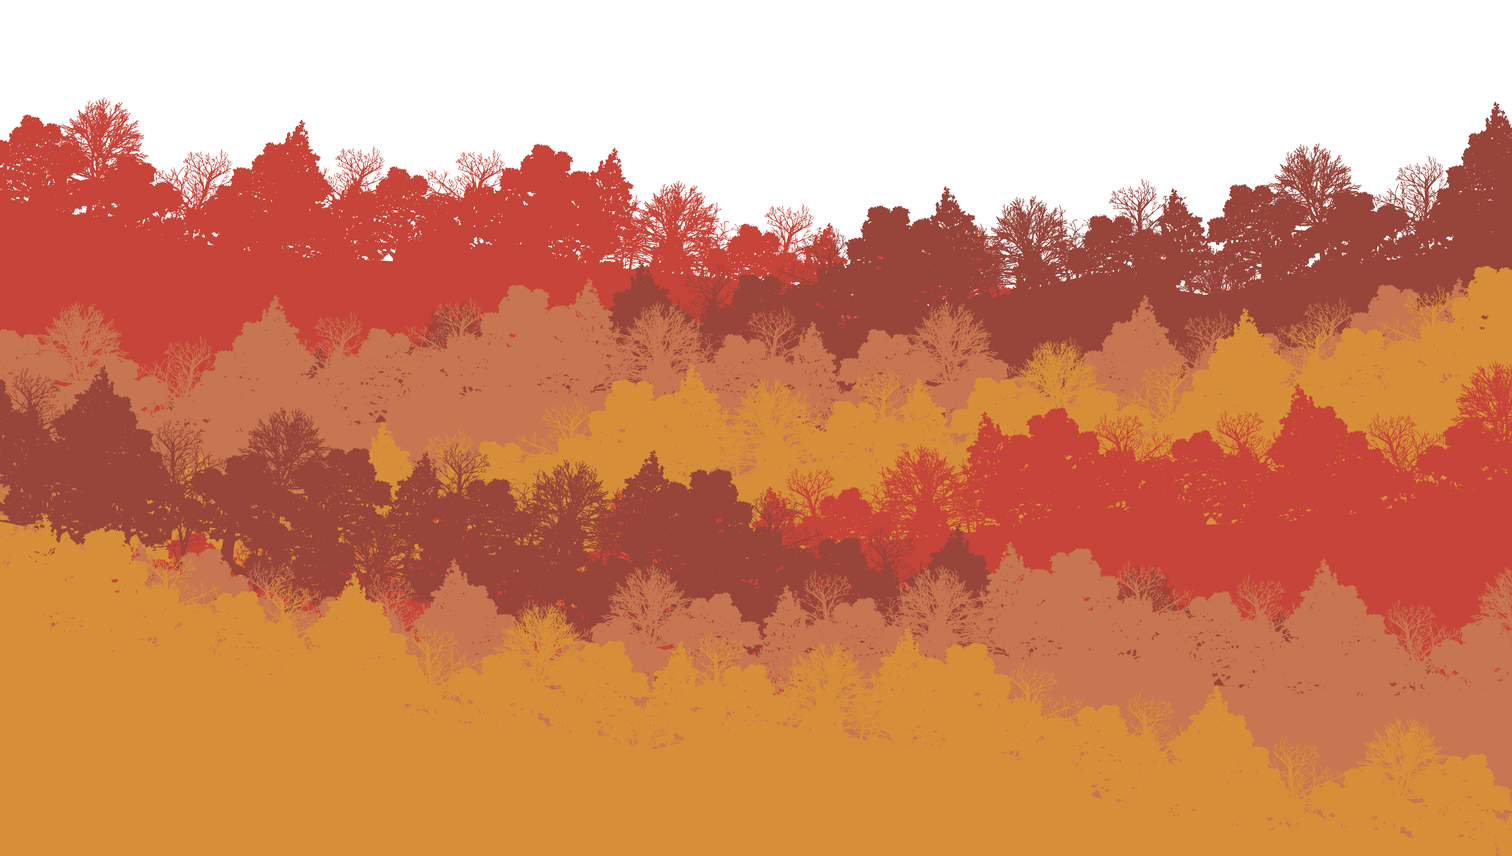
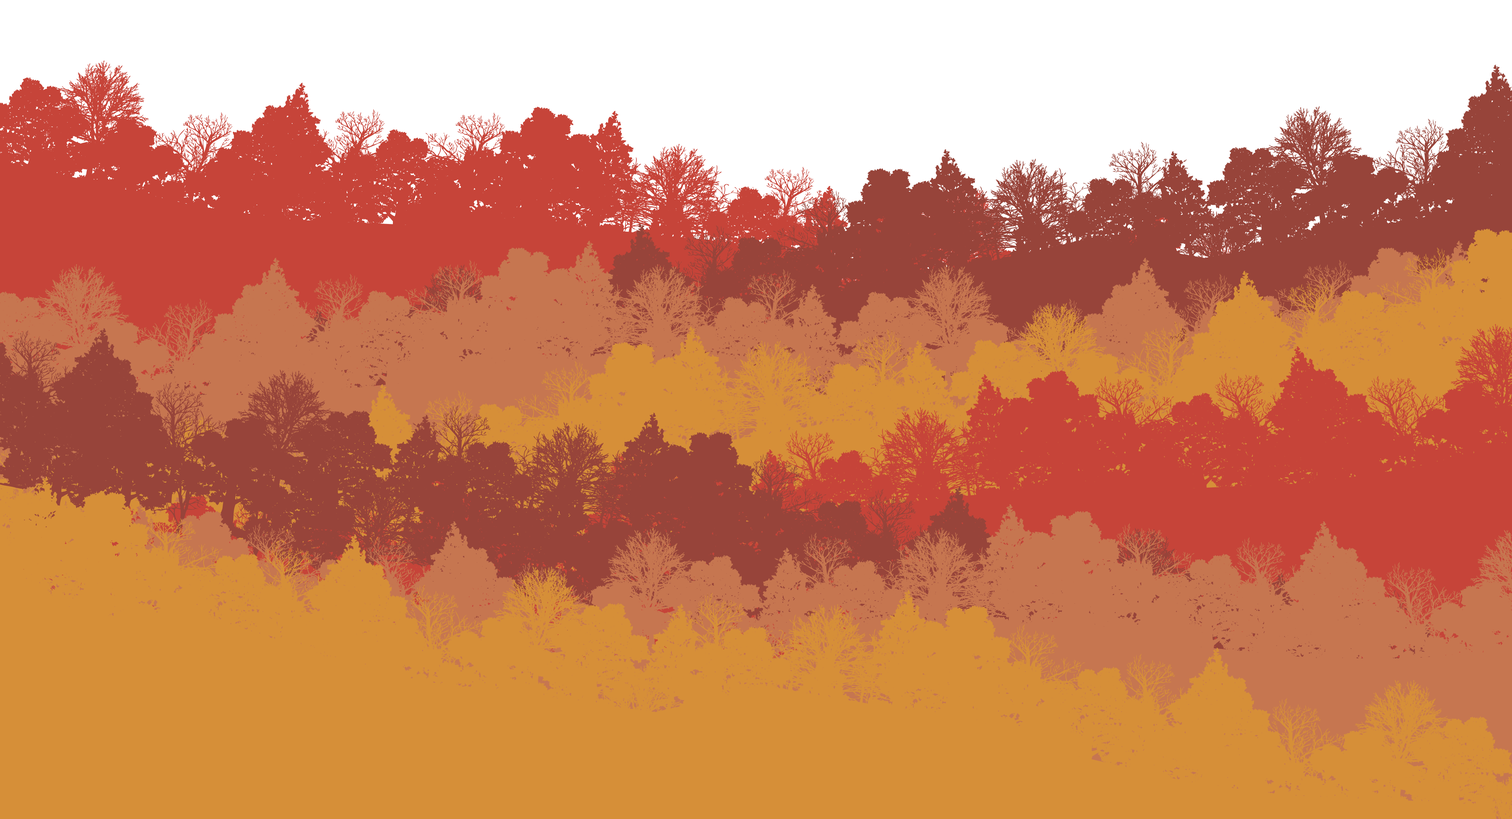
refactor(all): changed styling, and added new images

diff --git a/app/public/index.html b/app/public/index.html
@@ -4,125 +4,140 @@
     <meta charset="utf-8">
     <title>NJ Squared Wedding</title>
     <link rel="stylesheet" type="text/css" href="css/main.css" media="screen" />
+    <link href="https://fonts.googleapis.com/css?family=Montserrat:300|Quicksand:500" rel="stylesheet">
   </head>
   <body>
-    <div class="nav">
-      <div class="nav-links">
-        <ul>
-          <li><a href=#home>Home</a></li>
-          <li><a href=#our-story>Our Story</a></li>
-          <li><a href=#the-ceremony>The Ceremony</a></li>
-          <li><a href=#hotel>Hotel</a></li>
-          <li><a href=#sites>Sights To See</a></li>
-          <li><a href=#registry>Registry</a></li>
-          <li><a href=#rsvp>RSVP</a></li>
-        </ul>
+    <div class="wrapper">
+      <div class="nav">
+        <div class="nav-links">
+          <ul>
+            <li><a href=#home>HOME</a></li>
+            <li><a href=#our-story>OUR STORY</a></li>
+            <li><a href=#the-ceremony>THE CEREMONY</a></li>
+            <li><a href=#hotel>HOTEL</a></li>
+            <li><a href=#sites>SIGHTS</a></li>
+            <li><a href=#registry>REGISTRY</a></li>
+            <li><a href=#rsvp>RSVP</a></li>
+          </ul>
+        </div>
       </div>
+
+      <section id="home">
+        <img src="img/tree-cover.png"></img>
+      </section>
+
+      <section id="our-story">
+        <div class="content-wrapper">
+          <div class="image-container">
+            <img src="img/2nerds.jpg"></img>
+          </div>
+          <div class="text-container">
+            <h1>Our Story</h1>
+            <p>Neill and Natalie met online in 2010, and became fast friends over emails. Before long, they both had feelings for each other, and decided to date long distance. When Natalie graduated in 2014, she moved to San Antonio, TX so they could be together at last. After a year of living together in Texas, during a trip to up North, Neill proposed on a beautiful sunny day at Nubble Lighthouse in Maine, and the rest is history!</p>
+            <br>
+            <p>Neill - A huge nerd with a serious outside, but a soft goofy inside. He currently works as a software engineer at Rackspace. He enjoys reading, video games, viewing wildlife from the comfort of his home, and baking with Natalie.</p>
+            <br>
+            <p>Natalie - A huge nerd with a goofy outside, and a goofy inside. She currently works as a graphic designer at Vysk. She enjoys spoiling their two guinea pigs, crafts like crochet and embroidery, cooking, and backseat driving Neill’s video games.</p>
+          </div>
+        </div>
+      </section>
+
+      <section id="the-ceremony">
+        <div class="footer-container">
+          <img src="img/leaves1.png"></img>
+        </div>
+        <div class="content-wrapper">
+          <div class="image-container">
+            <img src="img/location2.jpg"></img>
+          </div>
+          <div class="text-container">
+            <h1>10/15/17</h1>
+            <p><b>Where:</b> Lorem ipsum dolor sit amet, consectetur adipiscing elit. Nulla purus nibh, sodales eu vestibulum molestie, viverra sed est. Ut fermentum interdum mauris, ut euismod urna tincidunt nec. Vestibulum eu interdum augue. Maecenas mattis est eget ipsum facilisis, vitae faucibus quam pretium. Sed vel ultrices nisi. Curabitur luctus mattis ante. Class aptent taciti sociosqu ad litora torquent per conubia nostra, per inceptos himenaeos. In non purus libero. Mauris sed purus ultrices, aliquam mauris ut, sagittis est. Duis at tempus ipsum. Ut ligula enim, efficitur a quam nec, laoreet vulputate eros. Quisque tincidunt libero lectus, eu viverra ipsum consectetur sed. Etiam sit amet justo elit. Duis et nisi egestas, pulvinar nisi at, facilisis tortor.</p>
+            <p><b>The Ceremony:</b> Proin quis nisi nulla. Vivamus faucibus tortor et mauris auctor congue. Duis vel risus sapien. Etiam gravida lacus eu porta malesuada. Vivamus ultrices, velit quis tristique tristique, nibh magna facilisis quam, quis pretium enim nunc et nisi. Aenean blandit, odio ac sodales dignissim, nulla odio placerat augue, et volutpat odio augue non felis. Maecenas fringilla facilisis mauris, ac suscipit risus luctus at. Maecenas id sapien maximus, commodo orci a, ornare nisi. Interdum et malesuada fames ac ante ipsum primis in faucibus. Vestibulum commodo hendrerit vehicula. In euismod nulla arcu, in malesuada enim varius eu. Aliquam consectetur suscipit sollicitudin.</p>
+            <p><b>Things to Note:</b> Suspendisse sed condimentum velit, in dapibus leo. In bibendum leo tellus, sed tempor diam venenatis eu. Mauris tincidunt, nunc sed accumsan luctus, elit risus fermentum sapien, a pharetra risus enim non neque. Mauris id venenatis erat, vitae blandit lectus. Vestibulum suscipit scelerisque justo, ut tempus dolor hendrerit id. Nunc vitae posuere ante, eget convallis metus. Proin pellentesque sapien lectus, nec commodo ligula finibus sit amet. Nullam scelerisque lobortis tempus. Praesent congue dapibus sodales. Maecenas at ultricies eros. Mauris mollis metus purus, eget accumsan eros varius et. Quisque ornare, nisi pretium pellentesque rutrum, justo diam scelerisque turpis, vel rhoncus nisl augue ac velit. Donec sed purus lacinia libero pharetra maximus. Pellentesque viverra elementum mollis. Etiam turpis orci, porttitor a libero eu, sodales tempus nisl.</p>
+          </div>
+        </div>
+      </section>
+
+      <section id="hotel">
+        <div class="footer-container">
+          <img src="img/leaves2.png"></img>
+        </div>
+        <div class="content-wrapper">
+          <div class="image-container">
+            <img src="img/hotels.jpg"></img>
+          </div>
+          <div class="text-container">
+            <h1>Hotels</h1>
+            <p><b>Near Fruitlands:</b> Lorem ipsum dolor sit amet, consectetur adipiscing elit. Nulla purus nibh, sodales eu vestibulum molestie, viverra sed est. Ut fermentum interdum mauris, ut euismod urna tincidunt nec. Vestibulum eu interdum augue. Maecenas mattis est eget ipsum facilisis, vitae faucibus quam pretium. Sed vel ultrices nisi. Curabitur luctus mattis ante. Class aptent taciti sociosqu ad litora torquent per conubia nostra, per inceptos himenaeos. In non purus libero. Mauris sed purus ultrices, aliquam mauris ut, sagittis est. Duis at tempus ipsum. Ut ligula enim, efficitur a quam nec, laoreet vulputate eros. Quisque tincidunt libero lectus, eu viverra ipsum consectetur sed. Etiam sit amet justo elit. Duis et nisi egestas, pulvinar nisi at, facilisis tortor.</p>
+            <p><b>In the Boston Area:</b> Proin quis nisi nulla. Vivamus faucibus tortor et mauris auctor congue. Duis vel risus sapien. Etiam gravida lacus eu porta malesuada. Vivamus ultrices, velit quis tristique tristique, nibh magna facilisis quam, quis pretium enim nunc et nisi. Aenean blandit, odio ac sodales dignissim, nulla odio placerat augue, et volutpat odio augue non felis. Maecenas fringilla facilisis mauris, ac suscipit risus luctus at. Maecenas id sapien maximus, commodo orci a, ornare nisi. Interdum et malesuada fames ac ante ipsum primis in faucibus. Vestibulum commodo hendrerit vehicula. In euismod nulla arcu, in malesuada enim varius eu. Aliquam consectetur suscipit sollicitudin.</p>
+          </div>
+        </div>
+      </section>
+
+      <section id="sites">
+        <div class="footer-container">
+          <img src="img/leaves3.png"></img>
+        </div>
+        <div class="content-wrapper">
+          <div class="image-container">
+            <img src="img/sites.jpg"></img>
+          </div>
+          <div class="text-container">
+            <h1>Sites to See</h1>
+            <p><b>In the Boston Area:</b> Lorem ipsum dolor sit amet, consectetur adipiscing elit. Nulla purus nibh, sodales eu vestibulum molestie, viverra sed est. Ut fermentum interdum mauris, ut euismod urna tincidunt nec. Vestibulum eu interdum augue. Maecenas mattis est eget ipsum facilisis, vitae faucibus quam pretium. Sed vel ultrices nisi. Curabitur luctus mattis ante. Class aptent taciti sociosqu ad litora torquent per conubia nostra, per inceptos himenaeos. In non purus libero. Mauris sed purus ultrices, aliquam mauris ut, sagittis est. Duis at tempus ipsum. Ut ligula enim, efficitur a quam nec, laoreet vulputate eros. Quisque tincidunt libero lectus, eu viverra ipsum consectetur sed. Etiam sit amet justo elit. Duis et nisi egestas, pulvinar nisi at, facilisis tortor.</p>
+            <p><b>Historical:</b> Proin quis nisi nulla. Vivamus faucibus tortor et mauris auctor congue. Duis vel risus sapien. Etiam gravida lacus eu porta malesuada. Vivamus ultrices, velit quis tristique tristique, nibh magna facilisis quam, quis pretium enim nunc et nisi. Aenean blandit, odio ac sodales dignissim, nulla odio placerat augue, et volutpat odio augue non felis. Maecenas fringilla facilisis mauris, ac suscipit risus luctus at. Maecenas id sapien maximus, commodo orci a, ornare nisi. Interdum et malesuada fames ac ante ipsum primis in faucibus. Vestibulum commodo hendrerit vehicula. In euismod nulla arcu, in malesuada enim varius eu. Aliquam consectetur suscipit sollicitudin.</p>
+            <p><b>Art:</b> Suspendisse sed condimentum velit, in dapibus leo. In bibendum leo tellus, sed tempor diam venenatis eu. Mauris tincidunt, nunc sed accumsan luctus, elit risus fermentum sapien, a pharetra risus enim non neque. Mauris id venenatis erat, vitae blandit lectus. Vestibulum suscipit scelerisque justo, ut tempus dolor hendrerit id. Nunc vitae posuere ante, eget convallis metus. Proin pellentesque sapien lectus, nec commodo ligula finibus sit amet. Nullam scelerisque lobortis tempus. Praesent congue dapibus sodales. Maecenas at ultricies eros. Mauris mollis metus purus, eget accumsan eros varius et. Quisque ornare, nisi pretium pellentesque rutrum, justo diam scelerisque turpis, vel rhoncus nisl augue ac velit. Donec sed purus lacinia libero pharetra maximus. Pellentesque viverra elementum mollis. Etiam turpis orci, porttitor a libero eu, sodales tempus nisl.</p>
+            <p><b>Entertainment:</b> Suspendisse sed condimentum velit, in dapibus leo. In bibendum leo tellus, sed tempor diam venenatis eu. Mauris tincidunt, nunc sed accumsan luctus, elit risus fermentum sapien, a pharetra risus enim non neque. Mauris id venenatis erat, vitae blandit lectus. Vestibulum suscipit scelerisque justo, ut tempus dolor hendrerit id. Nunc vitae posuere ante, eget convallis metus. Proin pellentesque sapien lectus, nec commodo ligula finibus sit amet. Nullam scelerisque lobortis tempus. Praesent congue dapibus sodales. Maecenas at ultricies eros. Mauris mollis metus purus, eget accumsan eros varius et. Quisque ornare, nisi pretium pellentesque rutrum, justo diam scelerisque turpis, vel rhoncus nisl augue ac velit. Donec sed purus lacinia libero pharetra maximus. Pellentesque viverra elementum mollis. Etiam turpis orci, porttitor a libero eu, sodales tempus nisl.</p>
+          </div>
+        </div>
+      </section>
+
+      <section id="registry">
+        <div class="footer-container">
+          <img src="img/leaves4.png"></img>
+        </div>
+        <div class="content-wrapper">
+          <div class="text-container">
+            <p>Lorem ipsum dolor sit amet, consectetur adipiscing elit. Nulla purus nibh, sodales eu vestibulum molestie, viverra sed est. Ut fermentum interdum mauris, ut euismod urna tincidunt nec. Vestibulum eu interdum augue. Maecenas mattis est eget ipsum facilisis, vitae faucibus quam pretium. Sed vel ultrices nisi. Curabitur luctus mattis ante. Class aptent taciti sociosqu ad litora torquent per conubia nostra, per inceptos himenaeos. In non purus libero. Mauris sed purus ultrices, aliquam mauris ut, sagittis est. Duis at tempus ipsum. Ut ligula enim, efficitur a quam nec, laoreet vulputate eros. Quisque tincidunt libero lectus, eu viverra ipsum consectetur sed. Etiam sit amet justo elit. Duis et nisi egestas, pulvinar nisi at, facilisis tortor.</p>
+          </div>
+          <div class="image-container">
+            <img src="img/registry1.jpg"></img>
+          </div>
+        </div>
+      </section>
+
+      <section id="rsvp">
+        <div class="footer-container">
+          <img src="img/leaves5.png"></img>
+        </div>
+        <div class="content-wrapper">
+          <div class="form">
+            <h1>RSVP</h1>
+            <form action="http://localhost:3000/guests" method="post">
+              <div class="form-field">
+                <label for="name">Your Name</label>
+                <input type="text" id="name" name="name">
+              </div>
+              <div class="form-field">
+                <label for="guest">Guest Name</label>
+                <input type="text" id="guest" name="guest">
+              </div>
+              <div class="form-field">
+                <label for="email">Email</label>
+                <input type="text" id="email" name="email">
+              </div>
+              <div class="form-field">
+                <label for="password">Password</label>
+                <input type="text" id="password" name="password">
+              </div>
+              <div class="form-button">
+                  <button type="submit">Submit</button>
+              </div>
+            </form>
+          </div>
+        </div>
+      </section>
     </div>
-
-    <section id="home">
-      <img src="img/tree-cover-01.png"></img>
-    </section>
-
-    <section id="our-story">
-      <div class="image-container">
-        <img src="img/2nerds.jpg"></img>
-      </div>
-      <div class="text-container">
-        <h1>Our Story</h1>
-        <p>Neill and Natalie met online in 2010, and became fast friends over emails. Before long, they both had feelings for each other, and decided to date long distance. When Natalie graduated in 2014, she moved to San Antonio, TX so they could be together at last. After a year of living together in Texas, during a trip to up North, Neill proposed on a beautiful sunny day at Nubble Lighthouse in Maine, and the rest is history!</p>
-        <br>
-        <p>Neill - A huge nerd with a serious outside, but a soft goofy inside. He currently works as a software engineer at Rackspace. He enjoys reading, video games, viewing wildlife from the comfort of his home, and baking with Natalie.</p>
-        <br>
-        <p>Natalie - A huge nerd with a goofy outside, and a goofy inside. She currently works as a graphic designer at Vysk. She enjoys spoiling their two guinea pigs, crafts like crochet and embroidery, cooking, and backseat driving Neill’s video games.</p>
-      </div>
-    </section>
-
-    <section id="the-ceremony">
-      <div class="footer-container">
-        <img src="img/leaves1.png"></img>
-      </div>
-      <div class="image-container">
-        <img src="img/location2.jpg"></img>
-      </div>
-      <div class="text-container">
-        <h1>10/15/17</h1>
-        <p><b>Where:</b> Lorem ipsum dolor sit amet, consectetur adipiscing elit. Nulla purus nibh, sodales eu vestibulum molestie, viverra sed est. Ut fermentum interdum mauris, ut euismod urna tincidunt nec. Vestibulum eu interdum augue. Maecenas mattis est eget ipsum facilisis, vitae faucibus quam pretium. Sed vel ultrices nisi. Curabitur luctus mattis ante. Class aptent taciti sociosqu ad litora torquent per conubia nostra, per inceptos himenaeos. In non purus libero. Mauris sed purus ultrices, aliquam mauris ut, sagittis est. Duis at tempus ipsum. Ut ligula enim, efficitur a quam nec, laoreet vulputate eros. Quisque tincidunt libero lectus, eu viverra ipsum consectetur sed. Etiam sit amet justo elit. Duis et nisi egestas, pulvinar nisi at, facilisis tortor.</p>
-        <p><b>The Ceremony:</b> Proin quis nisi nulla. Vivamus faucibus tortor et mauris auctor congue. Duis vel risus sapien. Etiam gravida lacus eu porta malesuada. Vivamus ultrices, velit quis tristique tristique, nibh magna facilisis quam, quis pretium enim nunc et nisi. Aenean blandit, odio ac sodales dignissim, nulla odio placerat augue, et volutpat odio augue non felis. Maecenas fringilla facilisis mauris, ac suscipit risus luctus at. Maecenas id sapien maximus, commodo orci a, ornare nisi. Interdum et malesuada fames ac ante ipsum primis in faucibus. Vestibulum commodo hendrerit vehicula. In euismod nulla arcu, in malesuada enim varius eu. Aliquam consectetur suscipit sollicitudin.</p>
-        <p><b>Things to Note:</b> Suspendisse sed condimentum velit, in dapibus leo. In bibendum leo tellus, sed tempor diam venenatis eu. Mauris tincidunt, nunc sed accumsan luctus, elit risus fermentum sapien, a pharetra risus enim non neque. Mauris id venenatis erat, vitae blandit lectus. Vestibulum suscipit scelerisque justo, ut tempus dolor hendrerit id. Nunc vitae posuere ante, eget convallis metus. Proin pellentesque sapien lectus, nec commodo ligula finibus sit amet. Nullam scelerisque lobortis tempus. Praesent congue dapibus sodales. Maecenas at ultricies eros. Mauris mollis metus purus, eget accumsan eros varius et. Quisque ornare, nisi pretium pellentesque rutrum, justo diam scelerisque turpis, vel rhoncus nisl augue ac velit. Donec sed purus lacinia libero pharetra maximus. Pellentesque viverra elementum mollis. Etiam turpis orci, porttitor a libero eu, sodales tempus nisl.</p>
-      </div>
-    </section>
-
-    <section id="hotel">
-      <div class="footer-container">
-        <img src="img/leaves2.png"></img>
-      </div>
-      <div class="image-container">
-        <img src="img/hotels.jpg"></img>
-      </div>
-      <div class="text-container">
-        <h1>Hotels</h1>
-        <p><b>Near Fruitlands:</b> Lorem ipsum dolor sit amet, consectetur adipiscing elit. Nulla purus nibh, sodales eu vestibulum molestie, viverra sed est. Ut fermentum interdum mauris, ut euismod urna tincidunt nec. Vestibulum eu interdum augue. Maecenas mattis est eget ipsum facilisis, vitae faucibus quam pretium. Sed vel ultrices nisi. Curabitur luctus mattis ante. Class aptent taciti sociosqu ad litora torquent per conubia nostra, per inceptos himenaeos. In non purus libero. Mauris sed purus ultrices, aliquam mauris ut, sagittis est. Duis at tempus ipsum. Ut ligula enim, efficitur a quam nec, laoreet vulputate eros. Quisque tincidunt libero lectus, eu viverra ipsum consectetur sed. Etiam sit amet justo elit. Duis et nisi egestas, pulvinar nisi at, facilisis tortor.</p>
-        <p><b>In the Boston Area:</b> Proin quis nisi nulla. Vivamus faucibus tortor et mauris auctor congue. Duis vel risus sapien. Etiam gravida lacus eu porta malesuada. Vivamus ultrices, velit quis tristique tristique, nibh magna facilisis quam, quis pretium enim nunc et nisi. Aenean blandit, odio ac sodales dignissim, nulla odio placerat augue, et volutpat odio augue non felis. Maecenas fringilla facilisis mauris, ac suscipit risus luctus at. Maecenas id sapien maximus, commodo orci a, ornare nisi. Interdum et malesuada fames ac ante ipsum primis in faucibus. Vestibulum commodo hendrerit vehicula. In euismod nulla arcu, in malesuada enim varius eu. Aliquam consectetur suscipit sollicitudin.</p>
-      </div>
-    </section>
-
-    <section id="sites">
-      <div class="footer-container">
-        <img src="img/leaves3.png"></img>
-      </div>
-      <div class="image-container">
-        <img src="img/sites.jpg"></img>
-      </div>
-      <div class="text-container">
-        <h1>Sites to See</h1>
-        <p><b>In the Boston Area:</b> Lorem ipsum dolor sit amet, consectetur adipiscing elit. Nulla purus nibh, sodales eu vestibulum molestie, viverra sed est. Ut fermentum interdum mauris, ut euismod urna tincidunt nec. Vestibulum eu interdum augue. Maecenas mattis est eget ipsum facilisis, vitae faucibus quam pretium. Sed vel ultrices nisi. Curabitur luctus mattis ante. Class aptent taciti sociosqu ad litora torquent per conubia nostra, per inceptos himenaeos. In non purus libero. Mauris sed purus ultrices, aliquam mauris ut, sagittis est. Duis at tempus ipsum. Ut ligula enim, efficitur a quam nec, laoreet vulputate eros. Quisque tincidunt libero lectus, eu viverra ipsum consectetur sed. Etiam sit amet justo elit. Duis et nisi egestas, pulvinar nisi at, facilisis tortor.</p>
-        <p><b>Historical:</b> Proin quis nisi nulla. Vivamus faucibus tortor et mauris auctor congue. Duis vel risus sapien. Etiam gravida lacus eu porta malesuada. Vivamus ultrices, velit quis tristique tristique, nibh magna facilisis quam, quis pretium enim nunc et nisi. Aenean blandit, odio ac sodales dignissim, nulla odio placerat augue, et volutpat odio augue non felis. Maecenas fringilla facilisis mauris, ac suscipit risus luctus at. Maecenas id sapien maximus, commodo orci a, ornare nisi. Interdum et malesuada fames ac ante ipsum primis in faucibus. Vestibulum commodo hendrerit vehicula. In euismod nulla arcu, in malesuada enim varius eu. Aliquam consectetur suscipit sollicitudin.</p>
-        <p><b>Art:</b> Suspendisse sed condimentum velit, in dapibus leo. In bibendum leo tellus, sed tempor diam venenatis eu. Mauris tincidunt, nunc sed accumsan luctus, elit risus fermentum sapien, a pharetra risus enim non neque. Mauris id venenatis erat, vitae blandit lectus. Vestibulum suscipit scelerisque justo, ut tempus dolor hendrerit id. Nunc vitae posuere ante, eget convallis metus. Proin pellentesque sapien lectus, nec commodo ligula finibus sit amet. Nullam scelerisque lobortis tempus. Praesent congue dapibus sodales. Maecenas at ultricies eros. Mauris mollis metus purus, eget accumsan eros varius et. Quisque ornare, nisi pretium pellentesque rutrum, justo diam scelerisque turpis, vel rhoncus nisl augue ac velit. Donec sed purus lacinia libero pharetra maximus. Pellentesque viverra elementum mollis. Etiam turpis orci, porttitor a libero eu, sodales tempus nisl.</p>
-        <p><b>Entertainment:</b> Suspendisse sed condimentum velit, in dapibus leo. In bibendum leo tellus, sed tempor diam venenatis eu. Mauris tincidunt, nunc sed accumsan luctus, elit risus fermentum sapien, a pharetra risus enim non neque. Mauris id venenatis erat, vitae blandit lectus. Vestibulum suscipit scelerisque justo, ut tempus dolor hendrerit id. Nunc vitae posuere ante, eget convallis metus. Proin pellentesque sapien lectus, nec commodo ligula finibus sit amet. Nullam scelerisque lobortis tempus. Praesent congue dapibus sodales. Maecenas at ultricies eros. Mauris mollis metus purus, eget accumsan eros varius et. Quisque ornare, nisi pretium pellentesque rutrum, justo diam scelerisque turpis, vel rhoncus nisl augue ac velit. Donec sed purus lacinia libero pharetra maximus. Pellentesque viverra elementum mollis. Etiam turpis orci, porttitor a libero eu, sodales tempus nisl.</p>
-      </div>
-    </section>
-
-    <section id="registry">
-      <div class="footer-container">
-        <img src="img/leaves4.png"></img>
-      </div>
-      <div class="text-container">
-        <p>Lorem ipsum dolor sit amet, consectetur adipiscing elit. Nulla purus nibh, sodales eu vestibulum molestie, viverra sed est. Ut fermentum interdum mauris, ut euismod urna tincidunt nec. Vestibulum eu interdum augue. Maecenas mattis est eget ipsum facilisis, vitae faucibus quam pretium. Sed vel ultrices nisi. Curabitur luctus mattis ante. Class aptent taciti sociosqu ad litora torquent per conubia nostra, per inceptos himenaeos. In non purus libero. Mauris sed purus ultrices, aliquam mauris ut, sagittis est. Duis at tempus ipsum. Ut ligula enim, efficitur a quam nec, laoreet vulputate eros. Quisque tincidunt libero lectus, eu viverra ipsum consectetur sed. Etiam sit amet justo elit. Duis et nisi egestas, pulvinar nisi at, facilisis tortor.</p>
-      </div>
-      <div class="image-container">
-        <img src="img/registry1.jpg"></img>
-      </div>
-    </section>
-
-    <section id="rsvp">
-      <div class="footer-container">
-        <img src="img/leaves5.png"></img>
-      </div>
-      <div class="form">
-        <h1>RSVP</h1>
-        <form action="http://localhost:3000/guests" method="post">
-          <div class="form-field">
-            <label for="name">Your Name</label>
-            <input type="text" id="name" name="name">
-          </div>
-          <div class="form-field">
-            <label for="guest">Guest Name</label>
-            <input type="text" id="guest" name="guest">
-          </div>
-          <div class="form-field">
-            <label for="email">Email</label>
-            <input type="text" id="email" name="email">
-          </div>
-          <div class="form-field">
-            <label for="password">Password</label>
-            <input type="text" id="password" name="password">
-          </div>
-          <div class="form-button">
-              <button type="submit">Submit</button>
-          </div>
-        </form>
-      </div>
-    </section>
   </body>
 </html>

diff --git a/app/public/css/main.css b/app/public/css/main.css
@@ -1,24 +1,36 @@
-@font-face {
-  font-family: "Gotham";
-  font-weight: bold;
-  src: url("../fonts/gotham_bold.otf") format("opentype");
-}
-
 body {
   background: #000000;
   margin: 0px;
   padding 0px;
+  font-family: 'Montserrat', sans-serif;
+}
+
+.wrapper {
+  margin-left: auto;
+  margin-right: auto;
+  width: 1440px;
+}
+
+.content-wrapper {
+  margin-left: auto;
+  margin-right: auto;
+  padding-top: 80px;
+  padding-bottom: 80px;
+  width: 1200px;
 }
 
 .image-container {
   display: inline;
   vertical-align: middle;
+  padding-left: 60px;
+  padding-right: 60px;
 }
 
 .image-container img {
   height: 40%;
   width: 40%;
-  padding: 40px;
+  padding-top: 40px;
+  padding-bottom: 40px;
 }
 
 .text-container {
@@ -28,12 +40,12 @@ body {
 }
 
 .text-container h1 {
-  width: 700px;
+  width: 400px;
   font-size: 34px;
 }
 
 .text-container p {
-  width: 700px;
+  width: 500px;
 }
 
 .text-container b {
@@ -47,7 +59,7 @@ body {
 }
 
 .nav {
-  background: rgba(0, 0, 0, 0.6);
+  background: #2F3F58;
   height: 70px;
   width: 100%;
   position: fixed;
@@ -71,12 +83,17 @@ body {
 
 .nav-links a {
   color: #ffffff;
-  font-family: "Gotham";
   text-decoration: none;
+  font-family: 'Quicksand', sans-serif;
+  padding-right: 40px;
+}
+
+#home {
+  background: #b9c5d2;
+  padding-top: 80px;
 }
 
 #home img {
-  overflow: hidden;
   width: 100%;
   display: block;
 }
@@ -84,6 +101,7 @@ body {
 #our-story {
   color: #ffffff;
   background: #2F3F58;
+  padding-top: 100px;
 }
 
 #the-ceremony {
